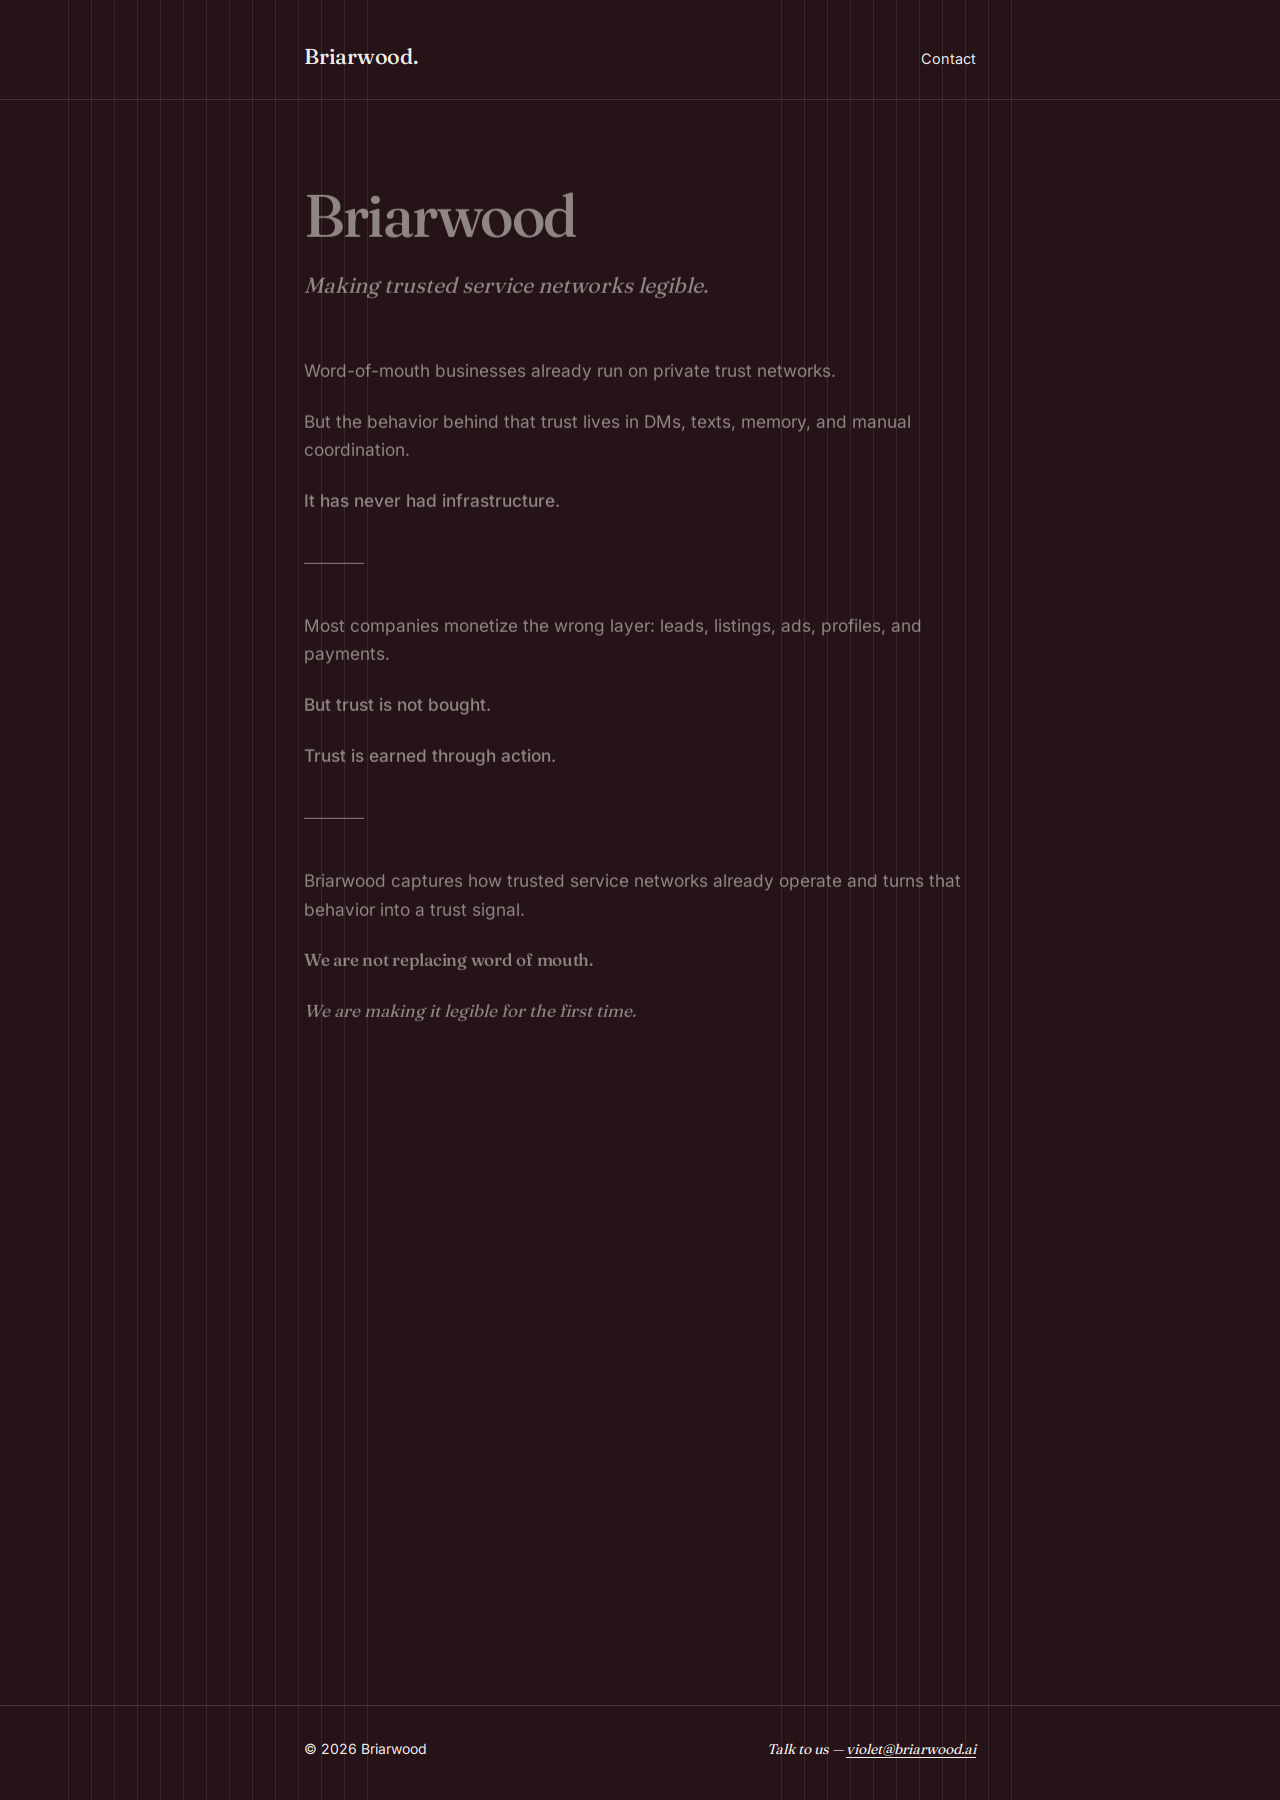
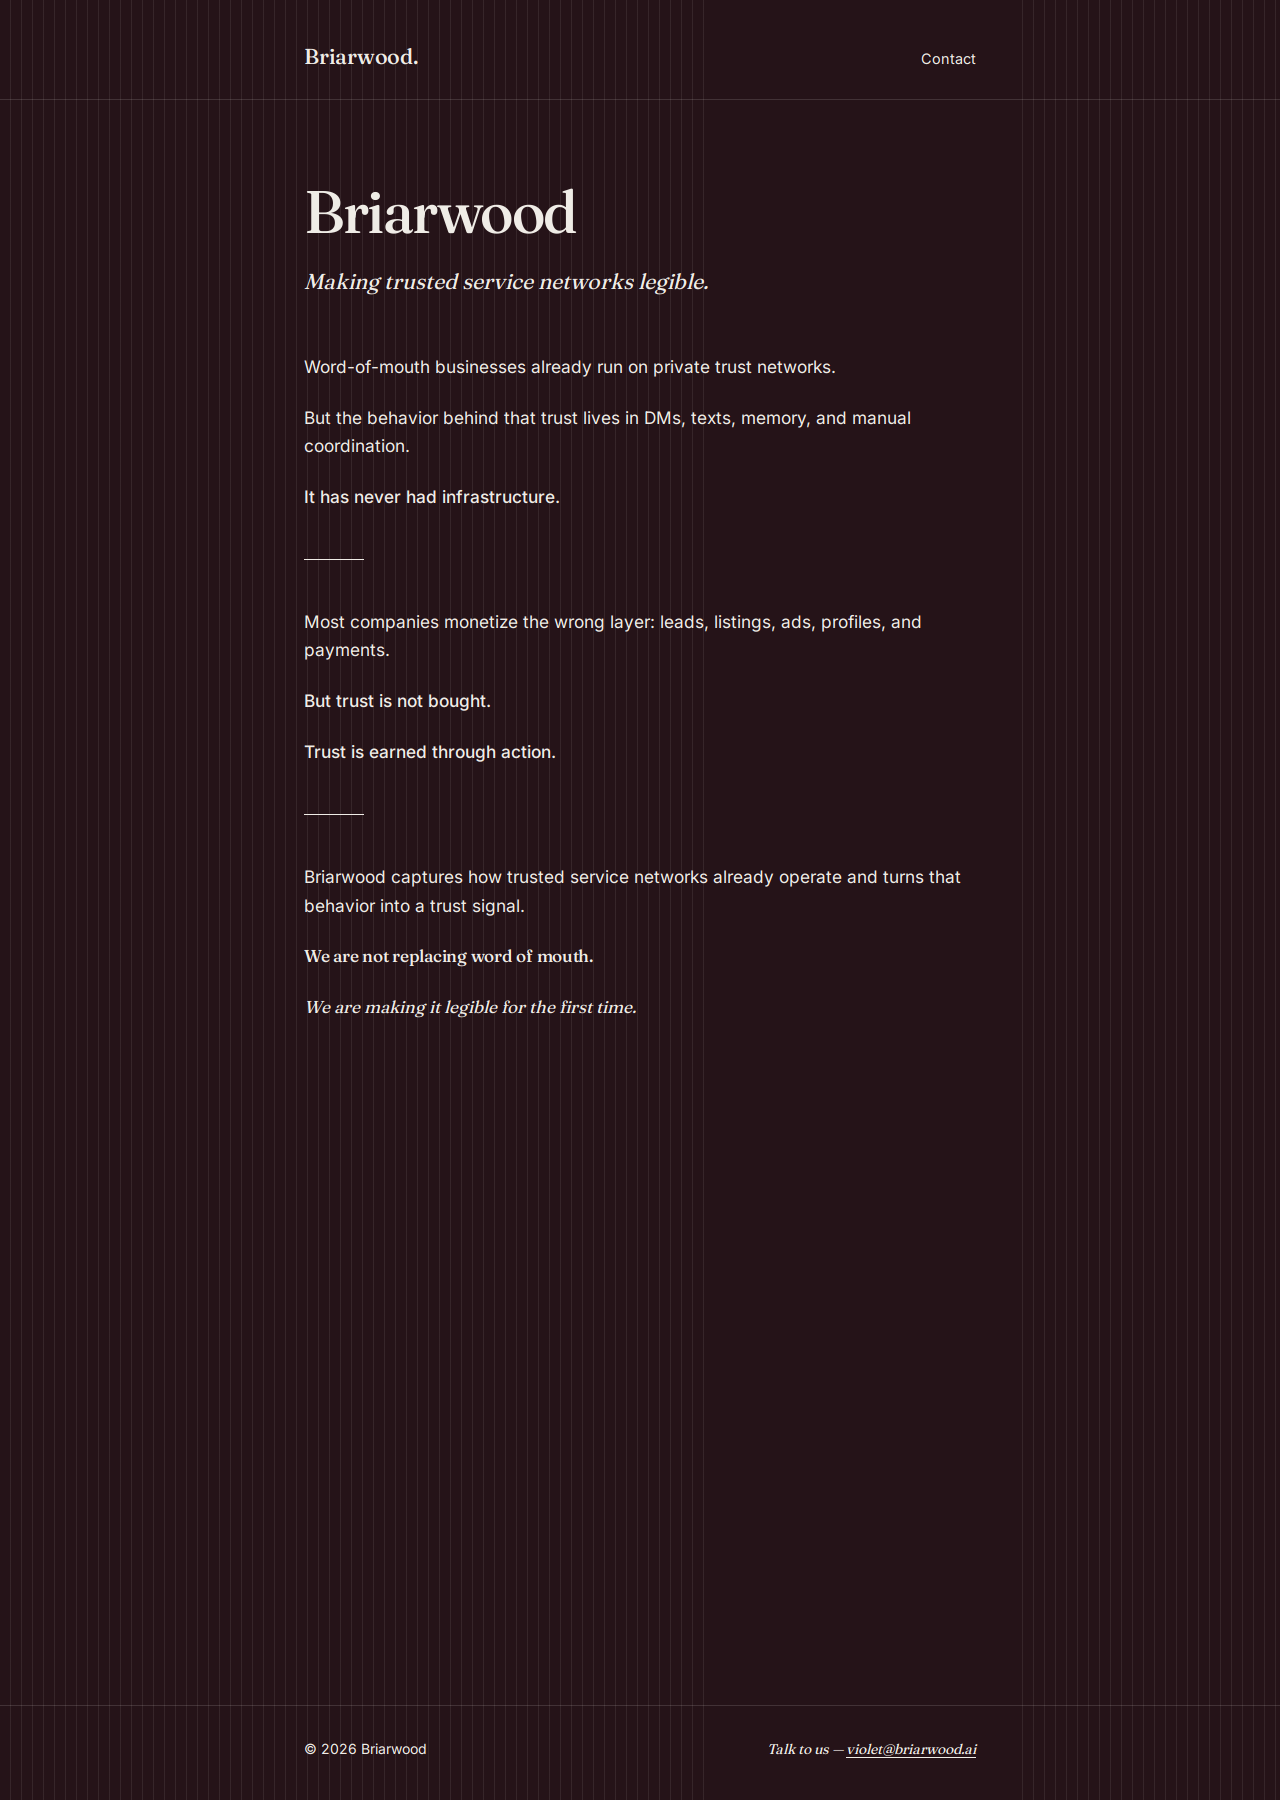
Update landing page to match inquiry page color and stripe design
Adjust CSS gradient for background repeating-linear-gradient to match dateinquiry.com colorway and stripe density, changing stripe spacing from 11px to 5px.

Replit-Commit-Author: Agent
Replit-Commit-Session-Id: 009ee89d-49d3-4709-8368-a0944dae4585
Replit-Commit-Checkpoint-Type: full_checkpoint
Replit-Commit-Event-Id: d20472f0-497a-4ff4-a8ae-54b24c66c7b1
Replit-Commit-Screenshot-Url: https://storage.googleapis.com/screenshot-production-us-central1/e8599704-1e72-4097-8c86-37ef455a3ec6/009ee89d-49d3-4709-8368-a0944dae4585/rmIFtIP
Replit-Helium-Checkpoint-Created: true

Changed region(s): [[0.2188, 0.0933, 0.7188, 0.28], [0.25, 0.4667, 0.75, 0.5911], [0.2188, 0.3422, 0.7188, 0.4356]]

diff --git a/briarwood-landing/index.html b/briarwood-landing/index.html
@@ -40,9 +40,9 @@ html {
   background-image: repeating-linear-gradient(
     to right,
     transparent 0,
-    transparent 11px,
-    hsla(36, 24%, 92%, 0.09) 11px,
-    hsla(36, 24%, 92%, 0.09) 11.5px
+    transparent 5px,
+    hsla(36, 24%, 92%, 0.085) 5px,
+    hsla(36, 24%, 92%, 0.085) 5.5px
   );
   min-height: 100%;
 }

diff --git a/client/public/briarwood-preview.html b/client/public/briarwood-preview.html
@@ -40,9 +40,9 @@ html {
   background-image: repeating-linear-gradient(
     to right,
     transparent 0,
-    transparent 11px,
-    hsla(36, 24%, 92%, 0.09) 11px,
-    hsla(36, 24%, 92%, 0.09) 11.5px
+    transparent 5px,
+    hsla(36, 24%, 92%, 0.085) 5px,
+    hsla(36, 24%, 92%, 0.085) 5.5px
   );
   min-height: 100%;
 }
